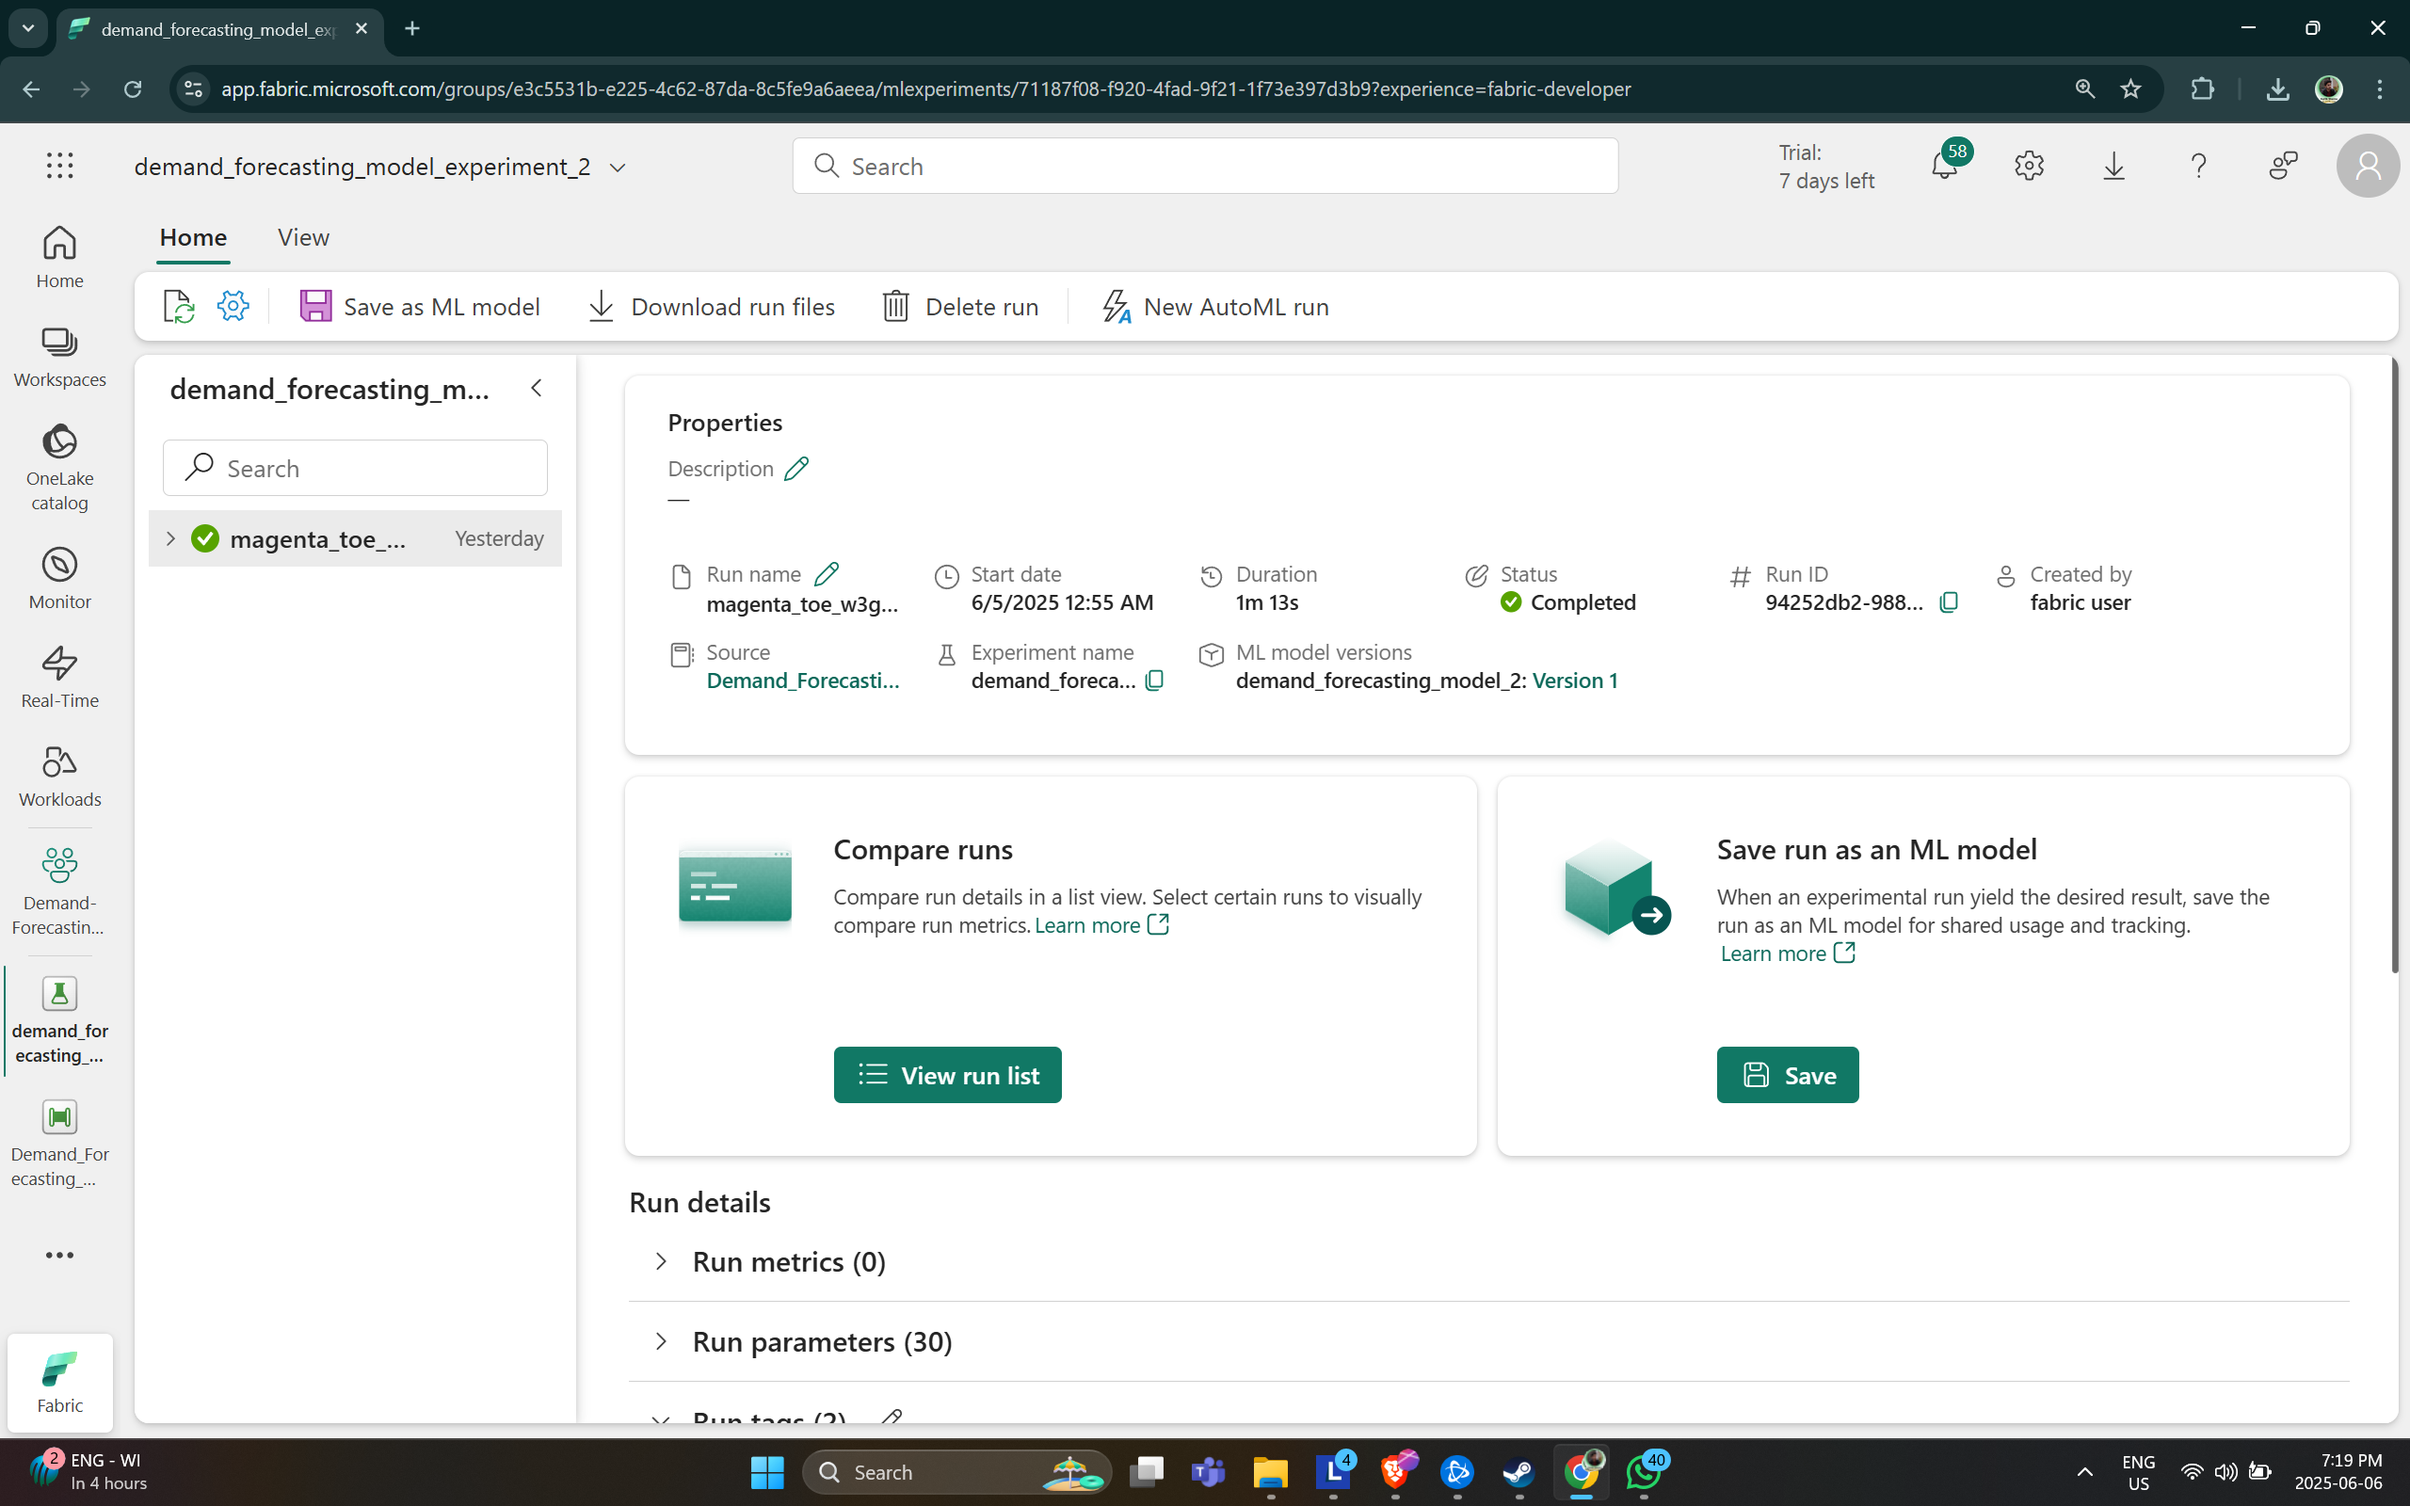
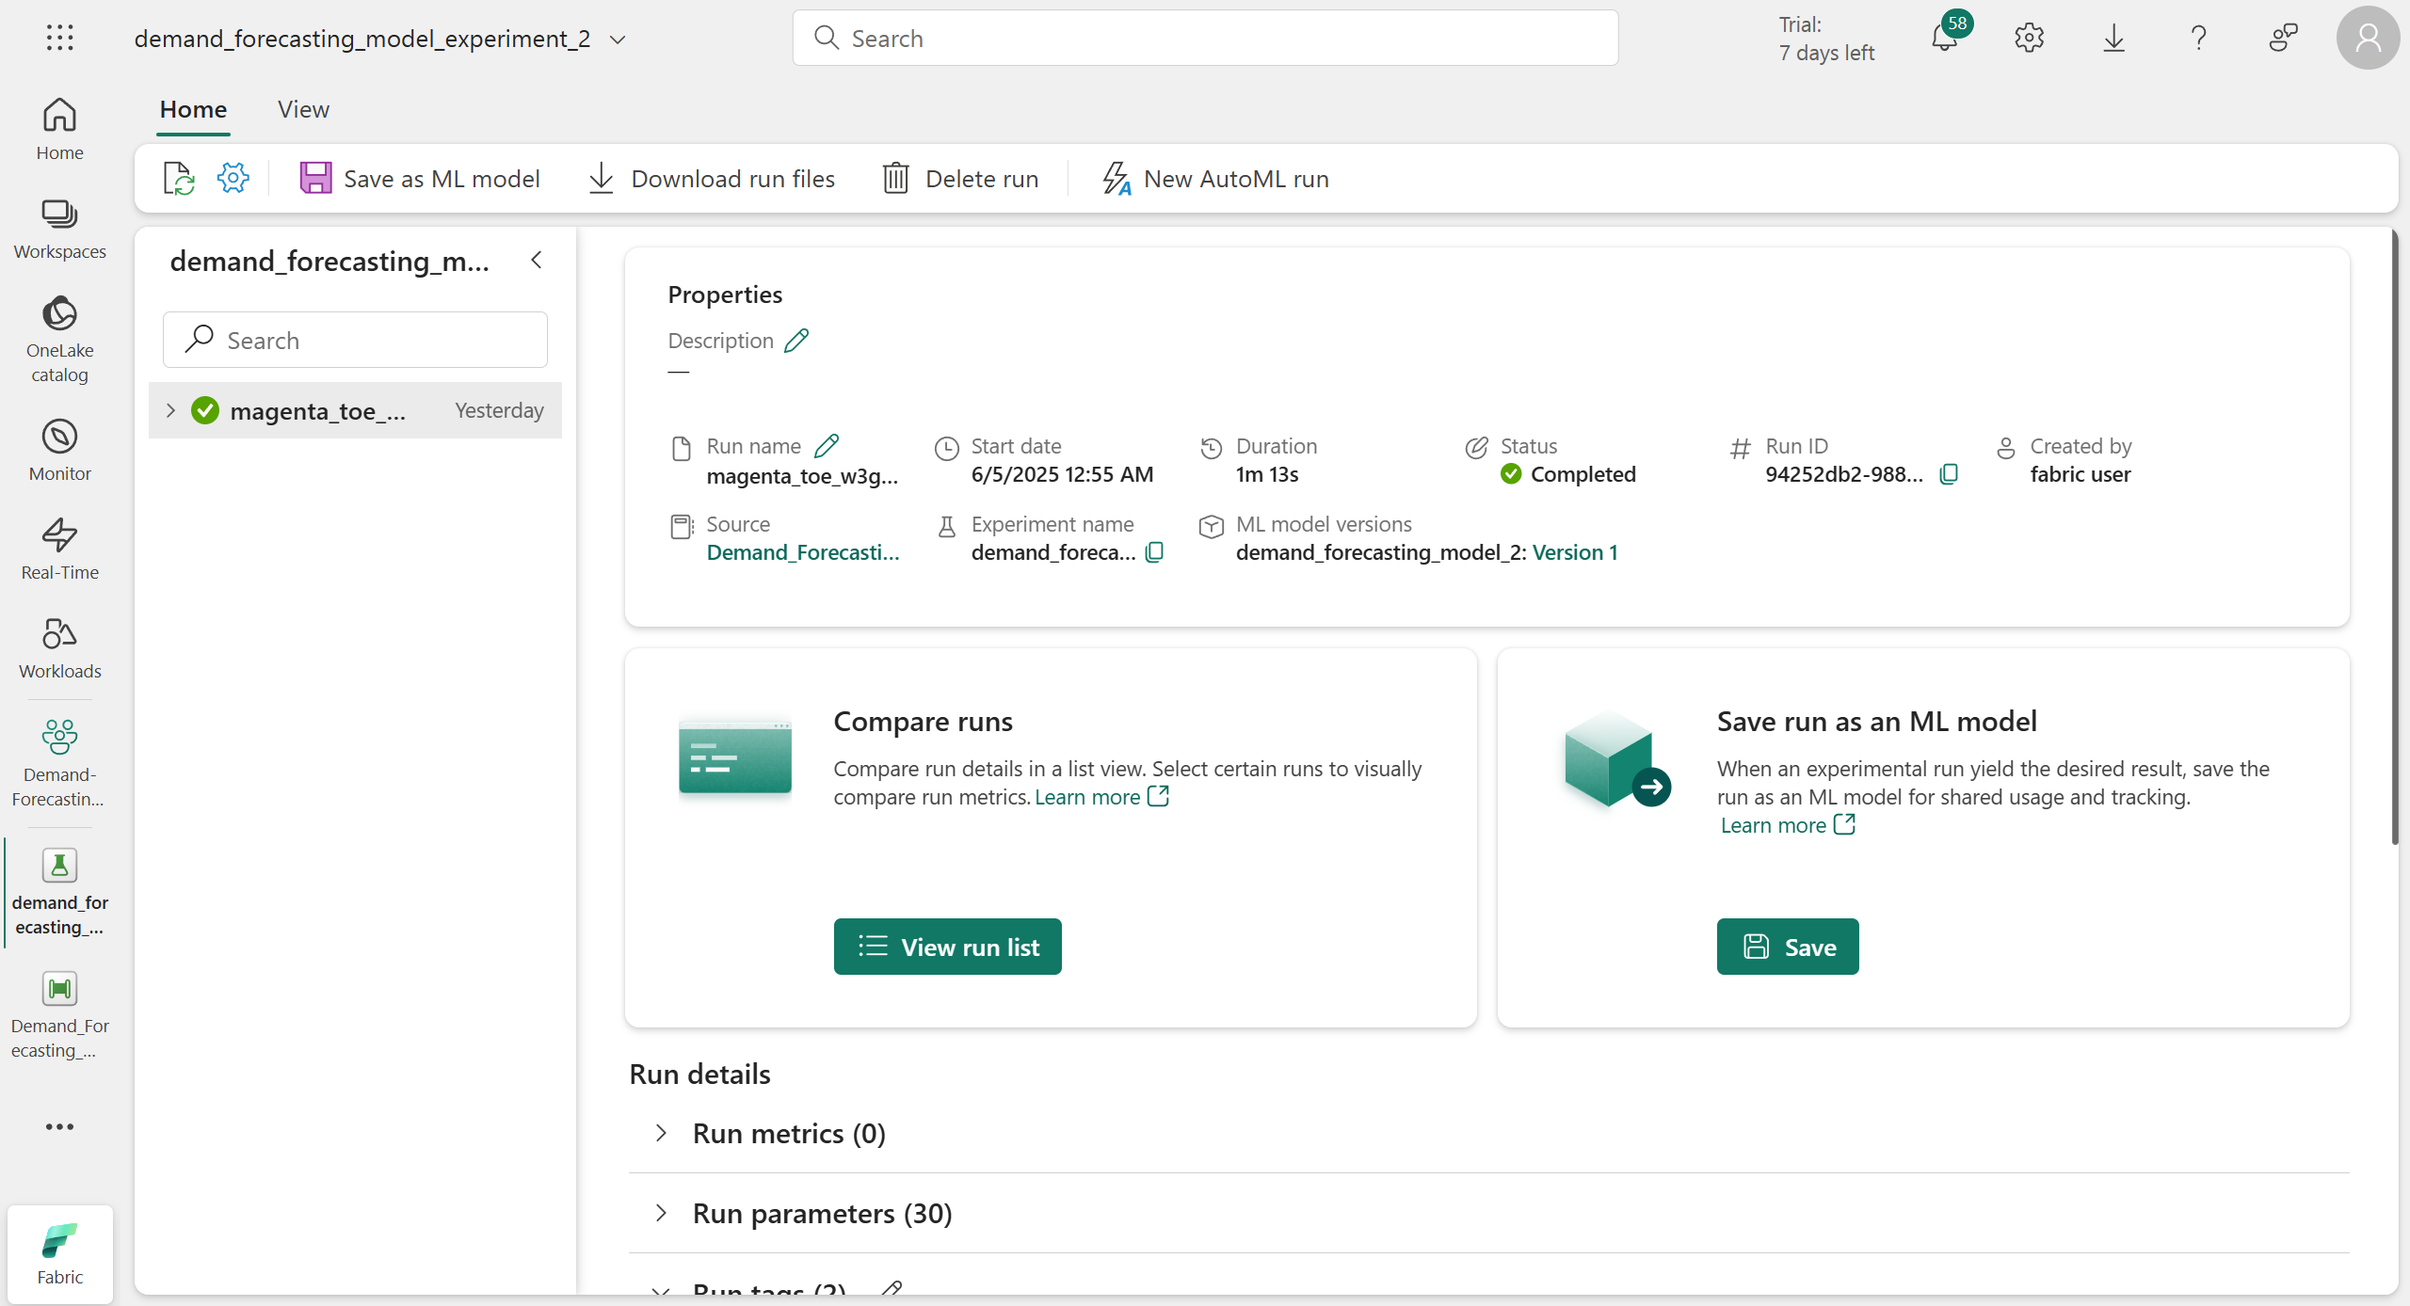
Updated README.md

diff --git a/README.md b/README.md
@@ -36,6 +36,8 @@ Fetches a raw CSV file containing historical sales data directly from a GitHub r
 3. Notebook Activity
 Executes the training notebook that preprocesses the data and trains a machine learning model.
 
+<img src="https://raw.githubusercontent.com/kartiksharmakk/Demand_Forecasting_Fabric/main/Screenshots/pipeline.png" width="100%" height="100%">
+
 ## Data Engineering & Preparation
 Inside the notebook, the following steps were taken to prepare the dataset for training:
 
@@ -70,7 +72,10 @@ To manage model lifecycle and track performance, MLflow was integrated within th
 
 6. Trained the Random Forest Regressor using a PySpark pipeline
 
+<img src="https://raw.githubusercontent.com/kartiksharmakk/Demand_Forecasting_Fabric/main/Screenshots/training_notebook.png" width="100%" height="100%">
 
+
+<img src="https://raw.githubusercontent.com/kartiksharmakk/Demand_Forecasting_Fabric/main/Screenshots/model_experiment.png" width="100%" height="100%">
 
 ## Model Deployment and Reuse
 In a separate inference notebook, I reused the registered model via MLflow’s model URI:
@@ -84,6 +89,8 @@ In a separate inference notebook, I reused the registered model via MLflow’s m
 
 📈 Predicted Units Sold in Week 39, 2011: quantity_sold 
 
+<img src="https://raw.githubusercontent.com/kartiksharmakk/Demand_Forecasting_Fabric/main/Screenshots/prediction.png" width="100%" height="100%">
+
 ## Version Control with GitHub Integration
 To ensure code versioning, collaboration, and traceability, I linked my Microsoft Fabric workspace to GitHub:
 
@@ -95,6 +102,7 @@ To ensure code versioning, collaboration, and traceability, I linked my Microsof
 
 #### This integration streamlined the development lifecycle and ensured that model and data engineering workflows were collaboratively developed and source-controlled.
 
+<img src="https://raw.githubusercontent.com/kartiksharmakk/Demand_Forecasting_Fabric/main/Screenshots/workspace.png" width="100%" height="100%">
 
 ## Conclusion
 This end-to-end project illustrates the powerful synergy of Microsoft Fabric, Lakehouse architecture, PySpark ML, and MLflow:
